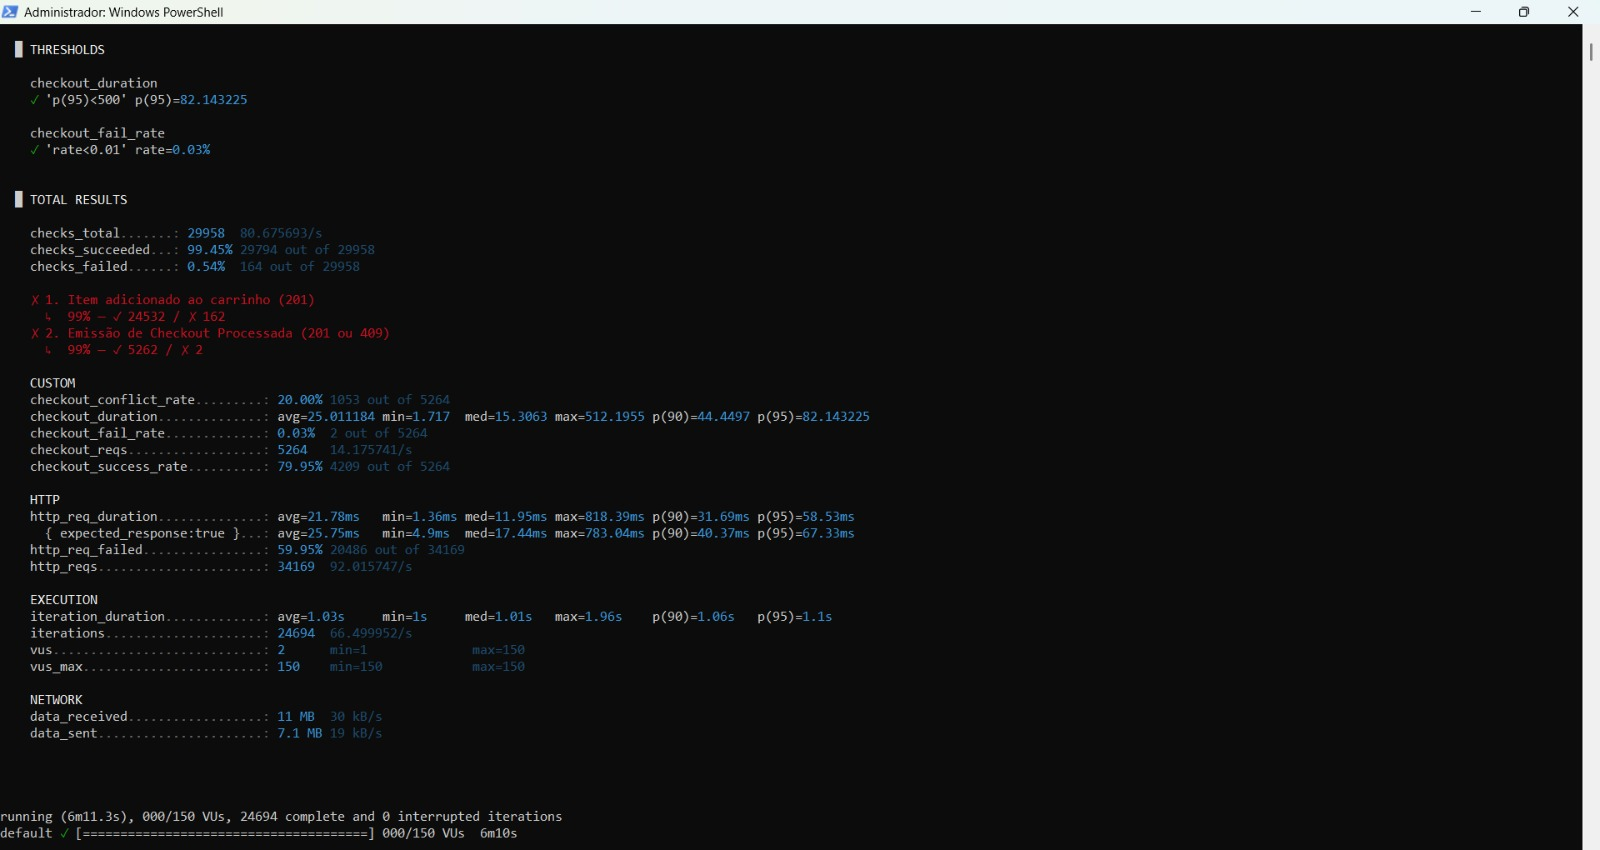
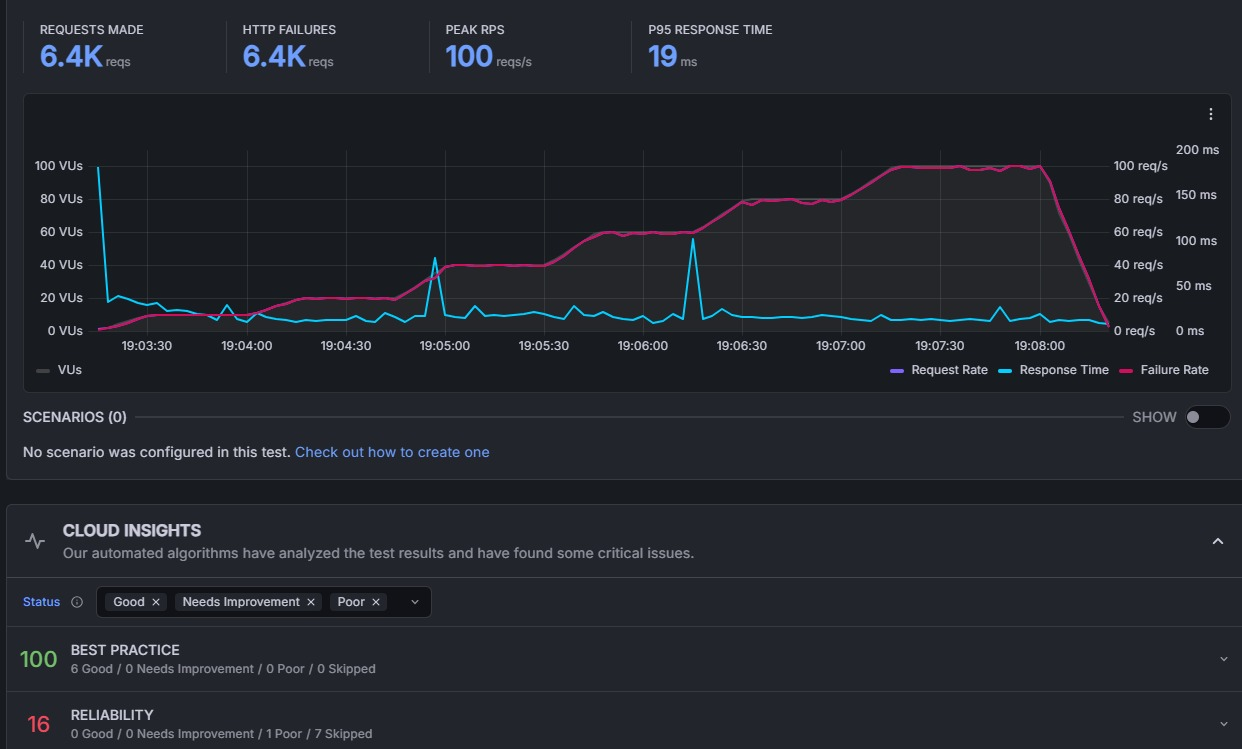
docs: modificando o relatório

diff --git a/k6-tests/teste-aquisicao-checkout.js b/k6-tests/teste-aquisicao-checkout.js
@@ -28,9 +28,6 @@ export const options = {
     { duration: '15s', target: 100 },
     { duration: '45s', target: 100 },
 
-    { duration: '20s', target: 150 },
-    { duration: '45s', target: 150 },
-
     { duration: '20s', target: 0 },
   ],
   thresholds: {

diff --git a/Teste_De_Carga.md b/Teste_De_Carga.md
@@ -128,28 +128,28 @@ Para garantir alta disponibilidade e atingir nossa meta de SLA (abaixo de 500ms)
 
 * **Persistência:** Banco de Dados Relacional MySQL local (v8.0.44), gerenciado via Hibernate/JPA (Versão 6.6.49) utilizando pool de conexões HikariCP.
 
-* **Ambiente de Teste:** Máquina Windows local, disparos realizados via Windows PowerShell, com monitoramento em tempo real via InfluxDB 1.8.
+* **Ambiente de Teste:** Máquina Windows local, disparos realizados via CLI pelo Grafana K6.
 
 **MEDIÇÃO 1** (como atualizei o teste, fiz uma nova medição na versão anterior)
 
-**Data da medição:** 05/06/2026
+**Data da medição:** 08/06/2026
 
 **Testes de carga (SLA):**
 
-* **Latência (Tempo de Resposta Médio - p95):** 55.43 ms
+* **Latência (Tempo de Resposta Médio - p95):** 20.38 ms
 
-* **Vazão:** 89.92 requisições por segundo (Total de 31478 checks realizados).
+* **Vazão:** 51.46 requisições por segundo.
 
-* **Concorrência:** 150 requisições simultâneas mantidas de forma constante (VUs).
+* **Concorrência:** 100 requisições simultâneas mantidas de forma constante (VUs).
 
-* **Taxa de Erro:** 13.35% (Falhas na validação da transação de aquisição).
+* **Taxa de Erro:** 4.78% (Falhas na validação da transação de aquisição).
 
 ![Imagem teste3 grafana](image-6.png)
 ![Imagem teste3 PowerShell](image-7.png)
 
 **LEVANTAMENTO DE HIPÓTESES dos potenciais gargalos do sistema que influenciam esta funcionalidade:**
 
-**Concorrência no Controle de Estoque (Race Condition):** A taxa de falha de 13.35% pode indicar que o sistema está falhando ao tentar reservar itens em estoque simultaneamente.
+**Concorrência no Controle de Estoque (Race Condition):** A taxa de falha de 4.78% pode indicar que o sistema está falhando ao tentar reservar itens em estoque simultaneamente.
 
 **Saturação do Pool de Conexões:** Como a operação de checkout envolve múltiplas tabelas (Carrinho, Estoque, Transação), se o HikariCP estiver com um limite de conexões baixo, as threads do Tomcat podem ficar em estado de WAITING, esperando uma conexão livre com o MySQL, o que explica a variação na latência em cenários de alta concorrência.
 
@@ -157,29 +157,24 @@ Para garantir alta disponibilidade e atingir nossa meta de SLA (abaixo de 500ms)
 
 **MEDIÇÃO 2**
 
-**Data da medição:** 05/06/2026
+**Data da medição:** 08/06/2026
 
 **Testes de carga (SLA):**
 
-* **Latência (Tempo de Resposta Médio - p95):** 82.14 ms
+* **Latência (Tempo de Resposta Médio - p95):** 173.53 ms
 
-* **Vazão:** 80.68 requisições por segundo (Total de 29958 checks realizados).
+* **Vazão:** 50.89 requisições por segundo
 
-* **Concorrência:** 150 requisições simultâneas mantidas de forma constante (VUs).
+* **Concorrência:** 100 requisições simultâneas mantidas de forma constante (VUs).
 
-* **Taxa de Erro:** 0.03% (Falhas na validação da transação de aquisição).
+* **Taxa de Erro:** 0.00% (Houveram falhas na transação de aquisição, não de sistema).
 
 ![Imagem teste3 grafana v2](image-13.png)
 ![Imagem teste3 PowerShell v2](image-14.png)
 
-**Comparação:**
+**Comparação da vazão:**
 
-|   Métricas   |  Medição 1  |  Medição 2  |
-|:------------:|:-----------:|:-----------:|
-|   Latência   |  55.43 ms   |  82.14 ms   |
-|    Vazão     | 84.92 req/s | 80.62 req/s |
-| Concorrência |   150 VUs   |   150 VUs   |
-| Taxa de Erro |   13.35%    |   0.03%     |
+![Imagem gráfico comparativo](image-15.png)
 
 **Arquivos modificados:** 
 * [AquisicaoController.java](src/main/java/io/github/leonluz/gatewayapi/pedidos/controller/AquisicaoController.java)
